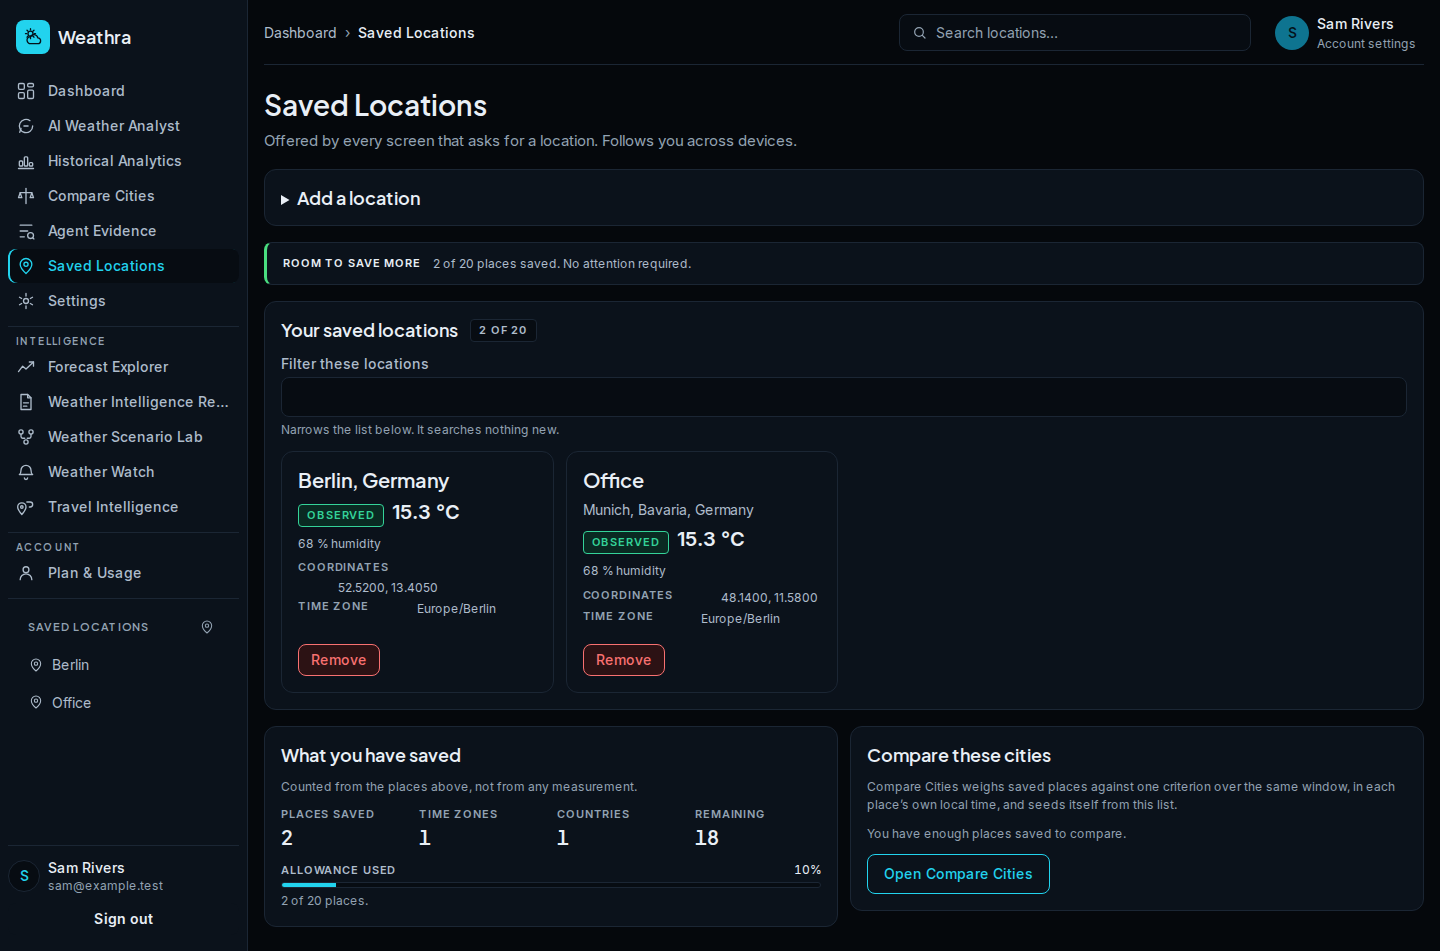
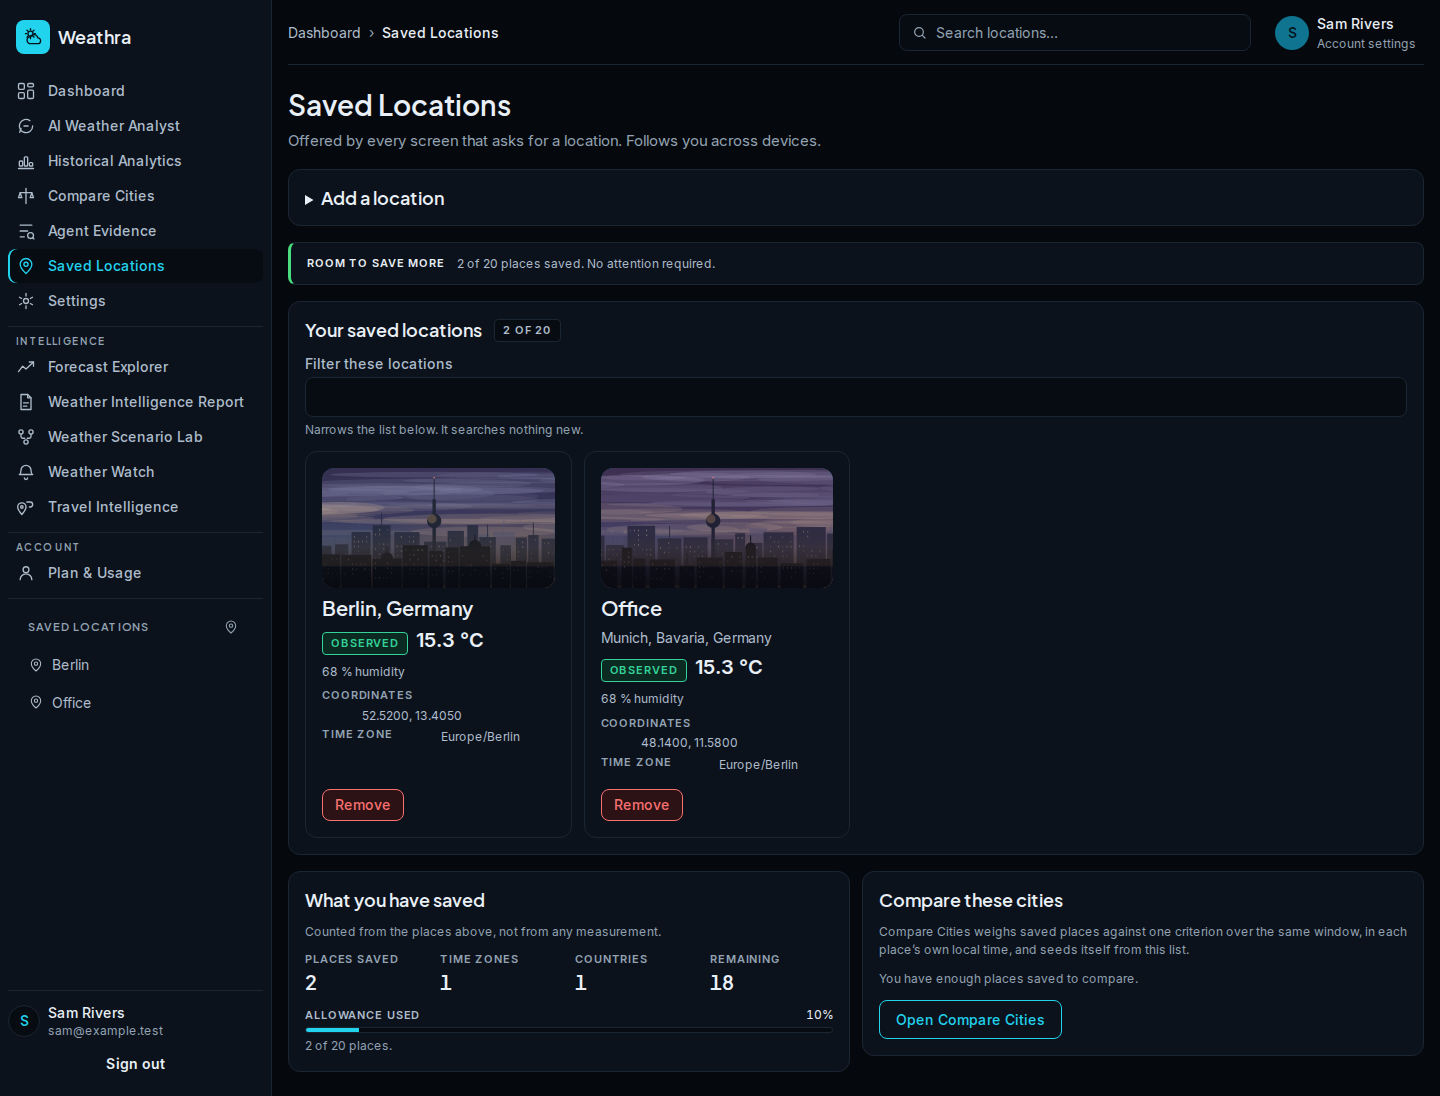
feat(ui): put the place's photograph on the screens that lacked one
`LocationImage` and its provider chain already existed — Pexels or Unsplash
where a key is configured, then a committed local photograph, then generated
artwork that cannot fail — and only the Dashboard and Compare Cities used it.
Saved Locations drew a name over a dark rectangle where `06-saved-locations.png`
gives every card a photograph of its place; Travel Intelligence opened on a
read-only text field where `15-travel-intelligence.png` leads with the
destination; Forecast Explorer had no imagery at all.

All three now carry the frame, which holds whether a photograph is found or not.
No key is exposed, no request is made from the browser, and nothing can render a
broken image: the last tier is drawn locally.

diff --git a/weathra/frontend/components/travel/travel.tsx b/weathra/frontend/components/travel/travel.tsx
@@ -32,6 +32,7 @@ import {
   ErrorState,
   Input,
   LoadingState,
+  LocationImage,
   Meter,
   Select,
 } from "@/components/ui";
@@ -139,6 +140,22 @@ function TravelFor({ location }: { readonly location: Location }): ReactNode {
           </p>
         </div>
       </header>
+
+      {/*
+        The destination, photographed. `15-travel-intelligence.png` leads with imagery of the place
+        and the production screen led with a read-only text field; the frame is the same whether a
+        photograph is found or not, so nothing here can break or shift.
+      */}
+      <LocationImage
+        displayName={friendlyName(location)}
+        latitude={location.latitude}
+        longitude={location.longitude}
+        variant="hero"
+        scrim="strong"
+      >
+        <span className={styles.heroPlace}>{friendlyName(location)}</span>
+        <span className={styles.heroZone}>{location.timezone}</span>
+      </LocationImage>
 
       <Card aria-labelledby="travel-controls">
         <CardHeader title="Your trip" titleId="travel-controls" />

diff --git a/weathra/frontend/components/locations/locations.tsx b/weathra/frontend/components/locations/locations.tsx
@@ -39,6 +39,7 @@ import {
   ErrorState,
   Input,
   LoadingState,
+  LocationImage,
   Meter,
   Skeleton,
 } from "@/components/ui";
@@ -199,6 +200,19 @@ function LocationCard({
 
   return (
     <li className={styles.card} data-saved-location={record.id}>
+      {/*
+        `06-saved-locations.png` gives every card a photograph of its place, and the production card
+        was a name over a dark rectangle. `LocationImage` holds the frame whether a photograph is
+        found or not — provider, then a committed local file, then generated artwork — so the card
+        never has a hole in it and never shows a broken image.
+      */}
+      <LocationImage
+        displayName={shown}
+        latitude={record.location.latitude}
+        longitude={record.location.longitude}
+        variant="banner"
+        scrim="soft"
+      />
       <span className={styles.cardName}>{shown}</span>
       {/*
         The person's label never replaces the canonical name — it sits above it. Except where the

diff --git a/weathra/frontend/components/explorer/explorer.tsx b/weathra/frontend/components/explorer/explorer.tsx
@@ -36,6 +36,7 @@ import {
   EmptyState,
   ErrorState,
   LoadingState,
+  LocationImage,
   ScrollRegion,
   Select,
 } from "@/components/ui";
@@ -311,6 +312,20 @@ function ExplorerFor({ location }: ExplorerForProps): ReactNode {
           />
         </div>
       </header>
+
+      {/*
+        The place, photographed. `11-forecast-explorer.png` opens on imagery of the location; the
+        frame holds whether a photograph is found or not, so the band never has a hole in it.
+      */}
+      <LocationImage
+        displayName={friendlyName(location)}
+        latitude={location.latitude}
+        longitude={location.longitude}
+        variant="banner"
+        scrim="strong"
+      >
+        <span className={styles.heroPlace}>{friendlyName(location)}</span>
+      </LocationImage>
 
       {current.state.kind === "ready" ? <MetricRow current={current.state.data} /> : null}
 

diff --git a/weathra/frontend/components/explorer/explorer.test.tsx b/weathra/frontend/components/explorer/explorer.test.tsx
@@ -134,7 +134,9 @@ describe("the explorer", () => {
   it("opens on the person's default location, named for a person", async () => {
     mount(client());
     expect(await screen.findByRole("heading", { name: "Forecast Explorer" })).toBeInTheDocument();
-    expect(screen.getByText(/Berlin, Germany/)).toBeInTheDocument();
+    // Named twice now — in the lede and over the location band the screen leads with — so what is
+    // asserted is that the place is named for a person at all, not that it appears exactly once.
+    expect(screen.getAllByText(/Berlin, Germany/).length).toBeGreaterThan(0);
   });
 
   it("shows the current measurements the provider reported", async () => {

diff --git a/weathra/frontend/components/travel/travel.module.css b/weathra/frontend/components/travel/travel.module.css
@@ -121,3 +121,16 @@
   color: var(--color-text-muted);
   max-width: 72ch;
 }
+
+/* The name and time zone over the destination photograph. */
+.heroPlace {
+  font-size: var(--type-heading-size);
+  line-height: var(--type-heading-line);
+  font-weight: var(--type-heading-weight);
+  color: var(--color-text-primary);
+}
+
+.heroZone {
+  color: var(--color-text-secondary);
+  font-size: var(--type-ui-size);
+}

diff --git a/weathra/frontend/components/explorer/explorer.module.css b/weathra/frontend/components/explorer/explorer.module.css
@@ -169,3 +169,11 @@
     grid-template-columns: minmax(0, 1fr);
   }
 }
+
+/* The place's name over its photograph. */
+.heroPlace {
+  font-size: var(--type-heading-size);
+  line-height: var(--type-heading-line);
+  font-weight: var(--type-heading-weight);
+  color: var(--color-text-primary);
+}
